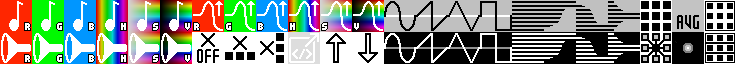
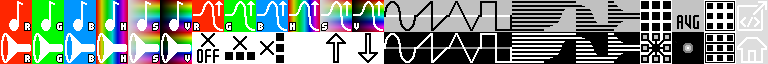
Updated readme. Added home button

diff --git a/src/css/umco.css b/src/css/umco.css
@@ -51,6 +51,7 @@ input[type="radio"] + label {
 }
 
 label,
+a.home,
 a.sourceCode {
   display: inline-block;
   cursor: pointer;
@@ -62,10 +63,17 @@ a.sourceCode {
   background-repeat: no-repeat;
 }
 
-a.sourceCode {
-  background-position: -288px -32px;
+a.home {
+  background-position: -736px -32px;
   position: relative;
-  left: -38px;
+  left: -70px;
+  bottom: -58px;
+}
+
+a.sourceCode {
+  background-position: -736px 0;
+  position: relative;
+  left: -70px;
   bottom: -58px;
 }
 

diff --git a/src/js/umco.js b/src/js/umco.js
@@ -19,11 +19,6 @@ window.onload = function () {
       const fillBox = fillBoxFactory("#target");
       const updateAudioGraph = updateAudioGraphFactory(audioGraph, model);
 
-      // debug!!
-      model.listen(x => {
-        console.log("Model change", x);
-      });
-
       audioGraph.start();
 
       setInterval(function () {

diff --git a/src/index.html b/src/index.html
@@ -80,10 +80,11 @@
         </div>
       </div>
     </div>
+    <a class="home" href=".." />
     <a
       class="sourceCode"
       href="https://github.com/van-appears/umco#readme"
       target="_blank"
-    ></a>
+    />
   </body>
 </html>

diff --git a/README.md b/README.md
@@ -1,6 +1,38 @@
 # umco
 UserMedia Controlled Oscillations (look, bascially a browser-based webcam-driven synth)
 
-TODO
-q tuning
-invert buttons
+# components
+The centre of the screen shows 9 boxes, derived from the image captured via your webcam. Each of these boxes controls a separate oscillator. The colours of the boxes are based on the collator chosen (see below)
+
+The three rows of buttons are for controlling the output
+## first row
+* The colour attribute that controls the oscillator frequency
+** Clicking this button rotates through the six attributes: red, green, blue, hue, saturation, or value
+* Oscillator waveform: sine, sawtooth, triangle, or square
+
+## second row
+* The colour attribute the controls the filter cutoff frequency
+* The filter type: all pass (i.e. no filter), low pass, high pass, or band pass
+* The colour attribute that controlls the filter resonance / bandwidth
+
+## third row
+* Ring mod
+** Clicking this button rotates through three options: off, ring mod the oscillators in a row, or ring mod the oscillators in a column
+* Colour collator
+** Clicking this button rotates through two options: the average colour of the box in the captured webcam image, or the centre pixel of the box in the captured webcam image.
+* Pitch row
+** Clicking this button rotates through two options: each oscillator can cover three octaves, or each row represents a different octave
+* Connected oscillators
+** Clicking this button rotates through two options: each oscillator ranges freely, or only the centre oscillator ranges freely and the surrounding oscillator frequencies are fine adjustments to that. Note this only affects the frequency, not the filter cutoff.
+** If the pitch row is also enabled, then the centre of each row is used instead.
+
+# development
+To run development mode
+```
+npm start
+```
+To create a production build
+```
+export NODE_ENV=production
+npm run build
+```
